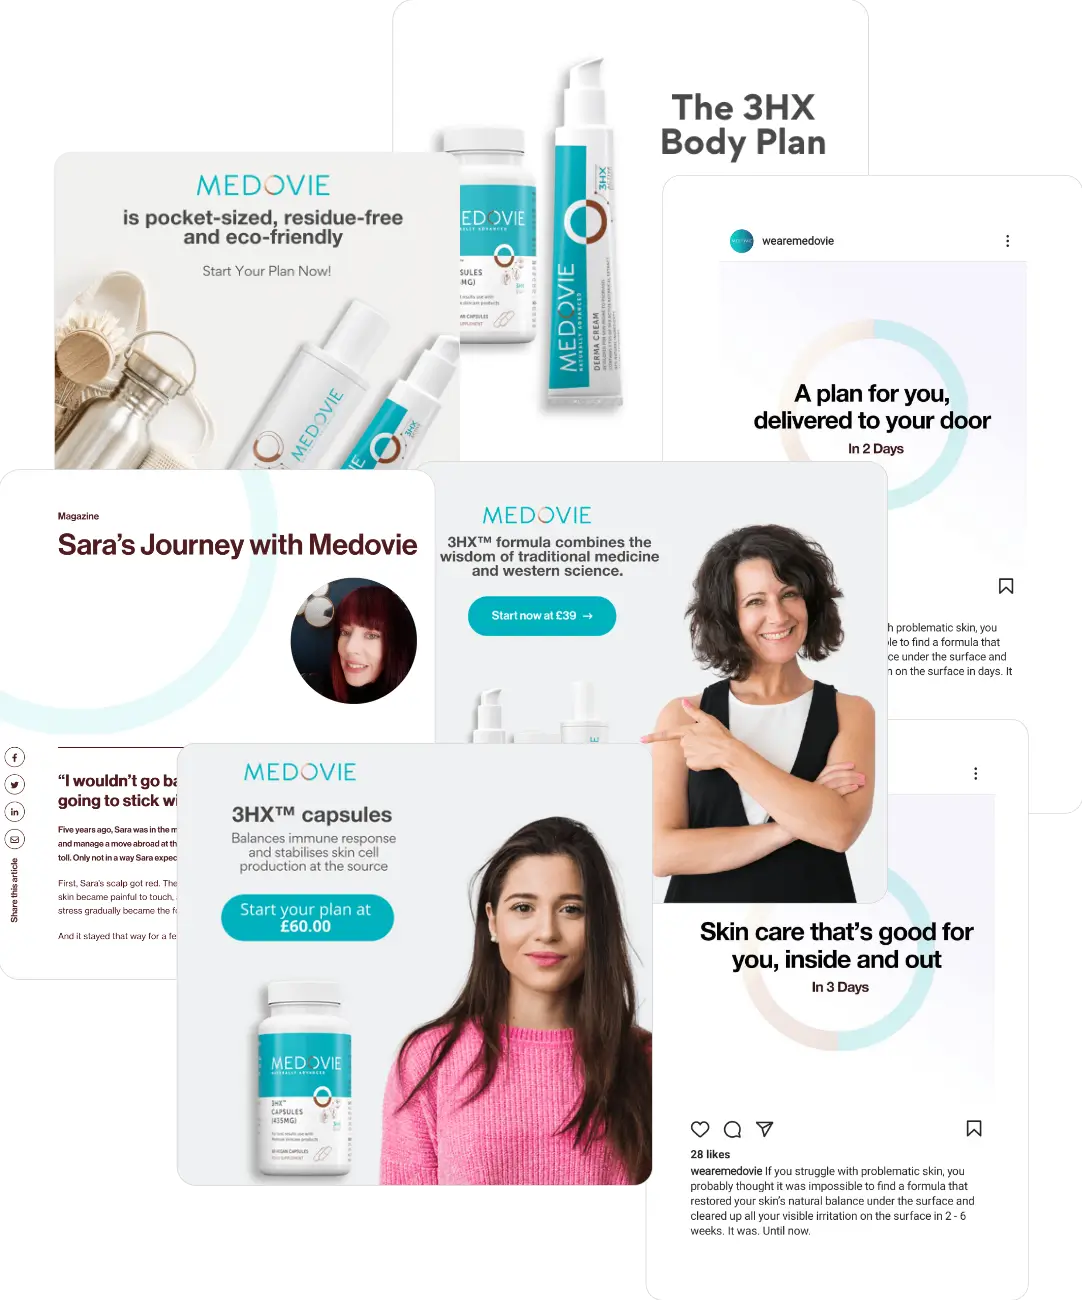
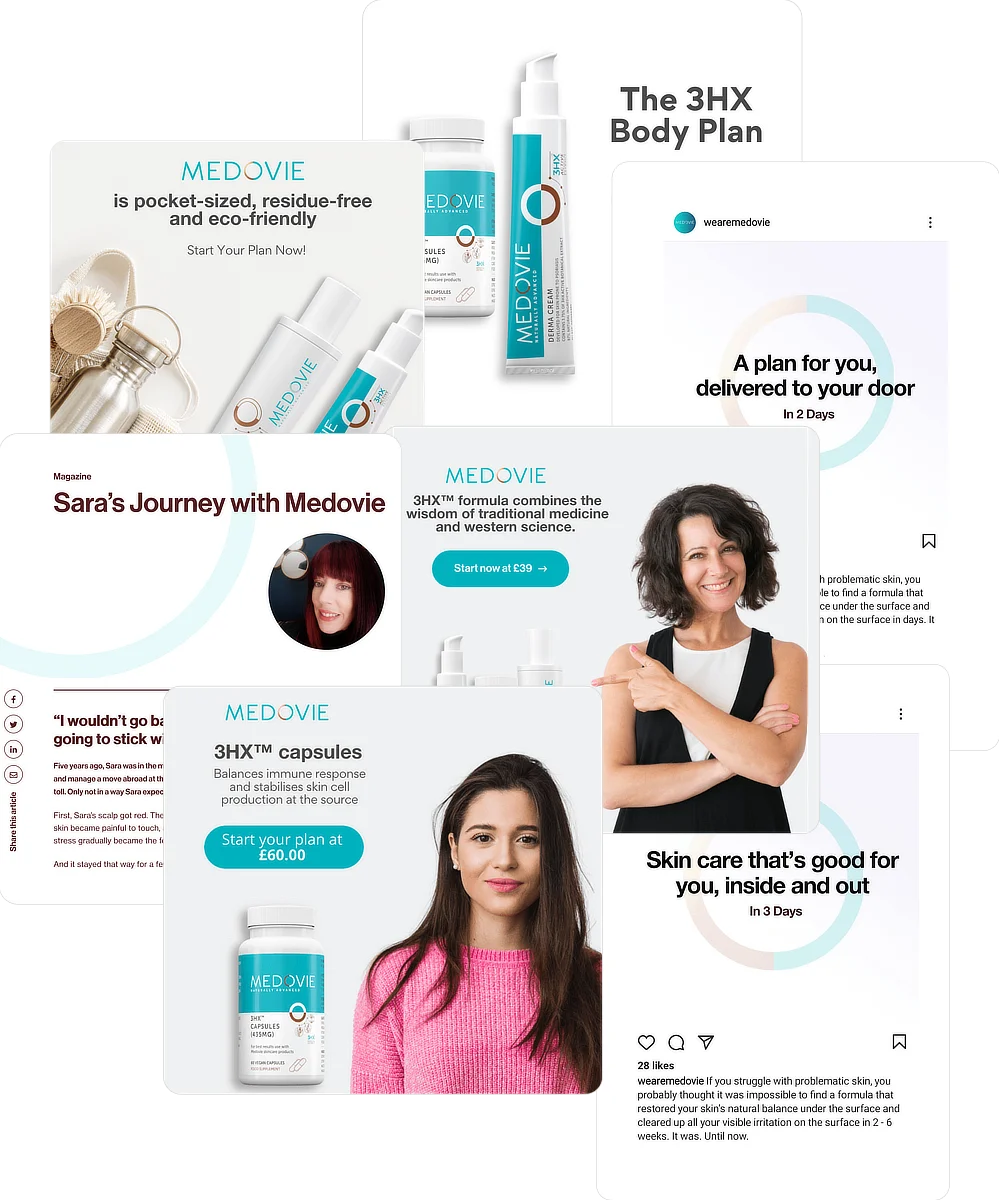
Replace image files with cwebp compressed files; reformat img attributes

diff --git a/index.html b/index.html
@@ -10,6 +10,7 @@
         <link rel="preload" fetchpriority="high" href="/assets/images/misfit_union.webp" as="image" type="image/webp">
         <link rel="preload" href="/assets/type/abcdiatype_semi-mono_medium.woff2" as="font" type="font/woff2" crossorigin="anonymous">
         <link rel="preload" href="/assets/type/abcdiatype_regular.woff2" as="font" type="font/woff2" crossorigin="anonymous">
+        <style>video{width:100%;height:auto;object-fit:cover;aspect-ratio:16/9}.video-player{max-width:100%;padding:1rem;border:2px solid var(--progress);border-radius:.25rem;background:var(--background);-webkit-tap-highlight-color:#fff0;outline:none;touch-action:manipulation}.controls{display:flex;align-items:center;margin-block-start:.5rem}.play-pause{display:flex;align-items:center;justify-content:center;width:22px;height:22px;margin-right:.5rem;padding:0;border:0;border-radius:50%;background-color:var(--accent);cursor:pointer}.play-pause .icon{width:75%;height:75%}.play-pause.play .icon polygon{fill:var(--background)}.play-pause.pause .icon rect{fill:var(--background)}.progress{position:relative;flex:1;height:2px;background-color:var(--progress);cursor:pointer}.progress-filled{width:0%;height:100%;background-color:var(--accent)}.progress input{position:absolute;top:-.45rem;width:100%;height:16px;margin:0;border:0;background:#fff0;-webkit-appearance:none;-moz-appearance:none;appearance:none;cursor:auto}.progress input::-webkit-slider-thumb{width:10px;height:10px;margin:0;border:0;border-radius:50%;background-color:var(--accent);-webkit-appearance:none;appearance:none;cursor:pointer}.progress input::-moz-range-thumb{width:10px;height:10px;margin:0;border:0;border-radius:50%;background-color:var(--accent);cursor:pointer;-moz-appearance:none;appearance:none;cursor:pointer}</style>
         <link rel="stylesheet" href="/assets/css/style.min.css?v=3">
         <link rel="icon" href="/favicon.ico" type="image/x-icon" sizes="32x32">
         <link rel="icon" href="/favicon.svg" type="image/svg+xml" sizes="any">
@@ -28,7 +29,6 @@
         <meta property="og:image:type" content="image/webp">
         <meta property="og:image:width" content="720">
         <meta property="og:image:height" content="720">
-        <style>video{width:100%;height:auto;object-fit:cover;aspect-ratio:16/9}.video-player{max-width:100%;padding:1rem;border:2px solid var(--progress);border-radius:.25rem;background:var(--background);-webkit-tap-highlight-color:#fff0;outline:none;touch-action:manipulation}.controls{display:flex;align-items:center;margin-block-start:.5rem}.play-pause{display:flex;align-items:center;justify-content:center;width:22px;height:22px;margin-right:.5rem;padding:0;border:0;border-radius:50%;background-color:var(--accent);cursor:pointer}.play-pause .icon{width:75%;height:75%}.play-pause.play .icon polygon{fill:var(--background)}.play-pause.pause .icon rect{fill:var(--background)}.progress{position:relative;flex:1;height:2px;background-color:var(--progress);cursor:pointer}.progress-filled{width:0%;height:100%;background-color:var(--accent)}.progress input{position:absolute;top:-.45rem;width:100%;height:16px;margin:0;border:0;background:#fff0;-webkit-appearance:none;-moz-appearance:none;appearance:none;cursor:auto}.progress input::-webkit-slider-thumb{width:10px;height:10px;margin:0;border:0;border-radius:50%;background-color:var(--accent);-webkit-appearance:none;appearance:none;cursor:pointer}.progress input::-moz-range-thumb{width:10px;height:10px;margin:0;border:0;border-radius:50%;background-color:var(--accent);cursor:pointer;-moz-appearance:none;appearance:none;cursor:pointer}</style>
     </head>
     <body>
         <div class="acme-all-purpose-wrapper">
@@ -50,7 +50,9 @@
                         <hr class="dotted" aria-hidden="true">
                     </div>
                     <div class="short-description"> 
-                        <p>Hi, I’m Max.👋 I’m a creative copy<span class="thin-space" aria-hidden="true"></span>/<span class="thin-space" aria-hidden="true"></span>content writer based in Sweden, working globally.</p>
+                        <p>
+                            Hi, I’m Max.👋 I’m a creative copy<span class="thin-space" aria-hidden="true"></span>/<span class="thin-space" aria-hidden="true"></span>content writer based in Sweden, working globally.
+                        </p>
                     </div>
                 </header>
                 <h2 id="nav-label" class="vh">Main Menu</h2>
@@ -77,7 +79,11 @@
                     <section aria-label="Project 1 of 9: Misfit Union">
                         <div class="section-inner">
                             <div class="media">
-                                <img class="x-tall" src="/assets/images/misfit_union.webp" alt="Misfit Union Doypack pouch with text" width="558" height="750" fetchpriority="high">
+                                <img class="x-tall" 
+                                    src="/assets/images/misfit_union.webp"
+                                    fetchpriority="high" 
+                                    width="558" height="750"
+                                    alt="Misfit Union Doypack pouch with text">
                             </div>
                             <div class="words">
                                 <h2>
@@ -145,7 +151,11 @@
                     <section aria-label="Project 3 of 9: Reforest Nicosia">
                         <div class="section-inner">
                             <div class="media">
-                                <img src="/assets/images/reforest_nicosia.webp" alt="Reforest Nicosia homepage" width="900" height="675" loading="lazy">
+                                <img 
+                                    src="/assets/images/reforest_nicosia.webp"
+                                    loading="lazy"
+                                    width="1000" height="750" 
+                                    alt="Reforest Nicosia homepage">
                             </div>    
                             <div class="words">
                                 <h2>
@@ -169,7 +179,11 @@
                     <section aria-label="Project 4 of 9: Medovie">
                         <div class="section-inner">
                             <div class="media">
-                                <img src="/assets/images/medovie.webp" alt="Medovie copywriting samples" width="1300" height="1082" loading="lazy">
+                                <img 
+                                    src="/assets/images/medovie.webp"
+                                    loading="lazy"
+                                    width="999" height="1200"
+                                    alt="Medovie copywriting samples">
                             </div>
                             <div class="words">
                                 <h2>
@@ -187,7 +201,11 @@
                     <section aria-label="Project 5 of 9: Bank of Cyprus">
                         <div class="section-inner">
                             <div class="media">
-                                <img src="/assets/images/boc.webp"  alt="Screens from Bank of Cyprus mobile app" width="1300" height="798" loading="lazy">
+                                <img 
+                                    src="/assets/images/boc.webp"
+                                    loading="lazy"
+                                    width="1200" height="737"
+                                    alt="Screens from Bank of Cyprus mobile app">
                             </div>
                             <div class="words">
                                 <h2>
@@ -205,7 +223,11 @@
                     <section aria-label="Project 6 of 9: BECCA Europe">
                         <div class="section-inner">
                             <div class="media">
-                                <img class="tall" src="/assets/images/becca_europe.webp" alt="BECCA Europe graphic" width="800" height="810" loading="lazy">
+                                <img class="tall" 
+                                    src="/assets/images/becca_europe.webp"
+                                    loading="lazy" 
+                                    width="987" height="1000"
+                                    alt="BECCA Europe graphic">
                             </div>
                             <div class="words">
                                 <h2>
@@ -223,7 +245,11 @@
                     <section aria-label="Project 7 of 9: WP Clone">
                         <div class="section-inner">
                             <div class="media">
-                                <img src="/assets/images/wp_clone.webp" alt="Content from the WP Clone website" width="1300" height="920" loading="lazy">
+                                <img 
+                                    src="/assets/images/wp_clone.webp"
+                                    loading="lazy"
+                                    width="1200" height="850"
+                                    alt="Content from the WP Clone website" >
                             </div>
                             <div class="words">
                                 <h2>
@@ -248,7 +274,11 @@
                     <section aria-label="Project 8 of 9: Centerfield Media">
                         <div class="section-inner">
                             <div class="media">
-                                <img src="/assets/images/centerfield.svg" alt="Photo illustration of a phishing attack" width="800" height="600" loading="lazy"> 
+                                <img 
+                                    src="/assets/images/centerfield.webp"
+                                    loading="lazy"
+                                    width="800" height="600"
+                                    alt="Photo illustration of a phishing attack"> 
                             </div>                 
                             <div class="words">
                                 <h2>
@@ -288,7 +318,11 @@
                     <section aria-label="Project 9 of 9: Longform">
                         <div class="section-inner">
                             <div class="media">
-                                <img src="/assets//images/longform.png" alt="Photo illustration of influencers acculumating likes" width="1500" height="1125" loading="lazy"> 
+                                <img 
+                                    src="/assets//images/longform.webp"
+                                    loading="lazy"
+                                    width="1500" height="1125"
+                                    alt="Photo illustration of influencers acculumating likes"> 
                             </div>                 
                             <div class="words">
                                 <h2>
